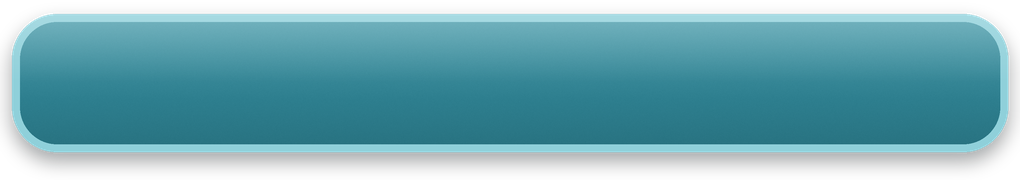
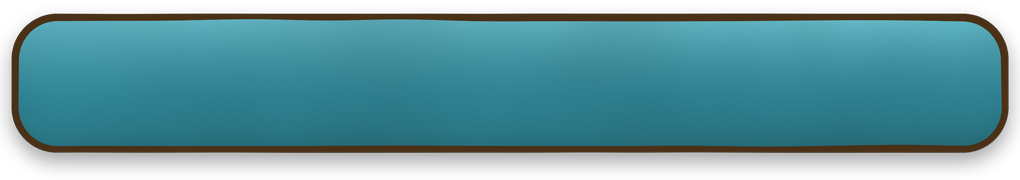
v44: menu iniziale con lettering dipinto (Gruppo 14)
Claude-Session: https://claude.ai/code/session_01EeKiG8y1kcPbdSHUHGW8AA

Changed region(s): [[0.0, 0.0556, 1.0, 0.8611]]

diff --git a/www/index.html b/www/index.html
@@ -132,14 +132,19 @@ body.gpui #ovStart .card h1{font-size:0;flex:none;height:118px;margin:-4px 0 0;b
 
 /* Menu iniziale «Mare dipinto» (pezzi di Muse estratti dalla bozza approvata) */
 body.gpui #ovStart{background:url(assets/menu/sfondo_menu.webp) center/cover no-repeat;padding-top:62px}
-body.gpui #ovStart .card{position:relative;isolation:isolate;overflow:visible;background:none;border:0;border-radius:0;max-width:410px;padding:88px 36px 40px;gap:8px;max-height:100%}
+body.gpui #ovStart .card{position:relative;isolation:isolate;overflow:visible;background:none;border:0;border-radius:0;max-width:392px;padding:88px 34px 40px;gap:8px;max-height:100%}
 body.gpui #ovStart .card::before{content:'';position:absolute;inset:0;z-index:-1;border:66px solid transparent;border-image:url(assets/menu/menu_pannello.png) 200 fill/66px stretch;pointer-events:none}
 body.gpui #ovStart .card::after{content:'';position:absolute;left:50%;top:0;width:150px;height:150px;transform:translate(-50%,-50%);background:url(assets/menu/menu_simbolo.png) center/contain no-repeat;pointer-events:none;z-index:2}
-body.gpui #ovStart .card h1{height:auto;font-size:40px;line-height:1.05;margin:-6px 0 0;background:none;text-align:center;color:#f7c452;text-shadow:0 2px 0 #9a5f14,0 4px 8px rgba(0,0,0,.45)}
+body.gpui #ovStart .card h1{height:80px;font-size:0;margin:-14px 0 -6px;background:url(assets/menu/menu_titolo.png) center/contain no-repeat;flex:none}
 body.gpui #ovStart .card.menu .sc{gap:9px;padding:2px 0}
 body.gpui #ovStart .card p{color:#d9eef2;text-align:center;font-size:14px}
 body.gpui #ovStart .card p.st{color:#b4dbe2;font-size:13px}
 body.gpui #ovStart .seg{gap:8px}
+body.gpui #ovStart img.tx{display:block;pointer-events:none;flex:none}
+body.gpui #ovStart .sg{display:flex;align-items:center;justify-content:center}
+body.gpui #ovStart .sg img.tx{transform:translateY(-1.5px)}
+body.gpui #ovStart .dt summary img.tx{margin-right:0}
+body.gpui #ovStart .dt summary{display:flex;align-items:center;justify-content:space-between}
 body.gpui #ovStart .sg{border:0;border-radius:0;min-height:50px;flex:none;background:url(assets/menu/menu_difficolta_normale.png) 0 0/100% 100% no-repeat;color:#0d3b47;font-size:16px}
 body.gpui #ovStart .sg:active{background-image:url(assets/menu/menu_difficolta_premuto.png)}
 body.gpui #ovStart .sg[aria-pressed=true]{background-image:url(assets/menu/menu_difficolta_selezionato.png);color:#3a2503}
@@ -154,7 +159,7 @@ body.gpui #ovStart .btn.alt[disabled]{border-image-source:url(assets/menu/menu_b
 body.gpui #ovStart #bTut{align-self:center;width:62%}
 body.gpui #ovStart #seedIn{flex:none;height:54px;min-height:0!important;border:0!important;border-radius:0!important;background:url(assets/menu/menu_campo_mappa.png) 0 0/100% 100% no-repeat!important;color:#d9eef2!important;font-size:16px}
 body.gpui #ovStart .dt{flex:none;background:none;border:0;border-radius:0;padding:0}
-body.gpui #ovStart .dt summary{height:54px;padding:0 18px;box-sizing:border-box;background:url(assets/menu/menu_sezione.png) 0 0/100% 100% no-repeat;color:#e4f4f7;font-size:16px}
+body.gpui #ovStart .dt summary{overflow:visible;height:54px;padding:0 18px;box-sizing:border-box;background:url(assets/menu/menu_sezione.png) 0 0/100% 100% no-repeat;color:#e4f4f7;font-size:16px}
 body.gpui #ovStart .dt[open] summary{background-image:url(assets/menu/menu_sezione_aperta.png)}
 body.gpui #ovStart .dt summary::after{content:'';width:22px;height:22px;background:#e4f4f7;-webkit-mask:url(assets/menu/icona_freccia_giu.png) center/contain no-repeat;mask:url(assets/menu/icona_freccia_giu.png) center/contain no-repeat;transition:transform .2s}
 body.gpui #ovStart .dt[open] summary::after{transform:rotate(180deg)}
@@ -203,10 +208,10 @@ body.gpui #ovStart .tl{color:#f4cf7a}
     <div class="seg" id="seg" role="group" aria-label="Livello del computer"></div>
     <p class="st" id="stats"></p>
     <button class="btn" id="bCont" type="button" style="min-height:48px" hidden>Continua partita</button>
-    <button class="btn" id="bPlay" type="button" style="min-height:48px">Gioca contro il computer</button>
+    <button class="btn" id="bPlay" type="button" style="min-height:48px" aria-label="Gioca contro il computer"><img class="tx" src="assets/menu/menu_t_gioca.png" alt="" style="width:300px;transform:translateY(-3px)"></button>
     <input id="seedIn" type="text" inputmode="numeric" maxlength="9" placeholder="Mappa n. (vuoto = a caso)" aria-label="Numero della mappa" style="min-height:40px;border-radius:12px;border:1px solid #2c4a5c;background:#0f2433;color:#e8f1f4;text-align:center;font:inherit;padding:0 10px">
-    <button class="btn alt" id="bTut" type="button" style="min-height:44px">Tutorial</button>
-    <details class="dt"><summary>Come si gioca</summary>
+    <button class="btn alt" id="bTut" type="button" style="min-height:44px" aria-label="Tutorial"><img class="tx" src="assets/menu/menu_t_tutorial.png" alt="" style="width:140px;transform:translateY(-2px)"></button>
+    <details class="dt"><summary aria-label="Come si gioca"><img class="tx" src="assets/menu/menu_t_comesigioca.png" alt="" style="width:233px;height:40px;margin-left:-66px"></summary>
       <ul>
       <li>Vinci tenendo entrambe le stazioni meteo per 3 round di fila, o eliminando tutte le unità nemiche.</li>
       <li>Ogni turno muovi e attacca con le tue unità, poi tocca Fine turno. Chi muove per primo si alterna a ogni round.</li>
@@ -796,6 +801,9 @@ const LS={
 let LOOK=6; // fisso: terreno a caselle separate su campo unico
 /* Registro modifiche: la prima voce è la versione attuale. Si aggiorna a ogni modifica. */
 const CHANGELOG=[
+{v:44,d:'24 nov 2026',t:'Menu iniziale con lettere dipinte (set v5)',n:[
+'Il menu iniziale usa il set v5 di Muse: titolo, «Gioca contro il computer», «Tutorial», Facile/Normale/Difficile e «Come si gioca» sono scritte dipinte a mano; pezzi con contorno scuro dipinto e cornice rifinita. Restano scritti dal gioco i testi che cambiano (Continua partita, mappa, impostazioni, motto)'
+]},
 {v:43,d:'23 nov 2026',t:'Correzione bottoni del menu',n:[
 'Sul telefono i bottoni del menu risultavano schiacciati con il testo che usciva: ora hanno l’altezza giusta, anche «Continua partita» su due righe'
 ]},
@@ -1018,7 +1026,7 @@ function buildSeg(){
   const el=$('seg');el.innerHTML='';
   for(const k of Object.keys(AI_LEVELS)){
     const b=document.createElement('button');b.type='button';b.className='sg';
-    b.textContent=AI_LEVELS[k].n;b.setAttribute('aria-pressed',String(k===level));
+    b.setAttribute('aria-label',AI_LEVELS[k].n);b.innerHTML='<img class="tx" alt="" src="assets/menu/menu_t_'+k+'_'+(k===level?'oro':'vetro')+'.png" style="width:90px;height:40px">';b.setAttribute('aria-pressed',String(k===level));
     b.onclick=()=>{level=k;LS.set('isole-level',k);buildSeg()};
     el.appendChild(b);
   }

diff --git a/muse/2026-11-23-menu-v5-lettering/RISPOSTA.md b/muse/2026-11-23-menu-v5-lettering/RISPOSTA.md
@@ -1,0 +1,7 @@
+# Risposta — menu v5 (integrato nella v44)
+
+Usato tutto il set. Sfondo ricodificato in WebP lossy qualità 92 (1236×2640, ~480 KB) per il peso della pagina.
+Per una eventuale v6:
+- `menu_t_impostazioni.png` dice «Impostazioni e prove grafiche», ma nel gioco la sezione ora si chiama solo «Impostazioni» (le prove grafiche sono state tolte): serve un lettering nuovo con la sola parola «Impostazioni». Per ora il gioco scrive quella parola con il font.
+- «Come si gioca» appare piccolo rispetto agli altri lettering: va bene un carattere un po' più grande (stessa altezza delle difficoltà).
+- Servirebbe anche il lettering per i pulsanti delle Impostazioni (Suoni accesi/spenti, Vibrazione, Musica) se si vuole tutto dipinto.

diff --git a/CHANGELOG.md b/CHANGELOG.md
@@ -2,6 +2,9 @@
 
 (Lo stesso registro è dentro il gioco: menu iniziale → «Novità e registro modifiche».)
 
+## v44 — 24 nov 2026 · Menu con lettere dipinte (set v5)
+- Scritte fisse del menu come immagini dipinte di Muse; pezzi rifiniti; sfondo nitido
+
 ## v43 — 23 nov 2026 · Correzione bottoni del menu
 - Altezza minima dei bottoni forzata (erano schiacciati sul telefono)
 
